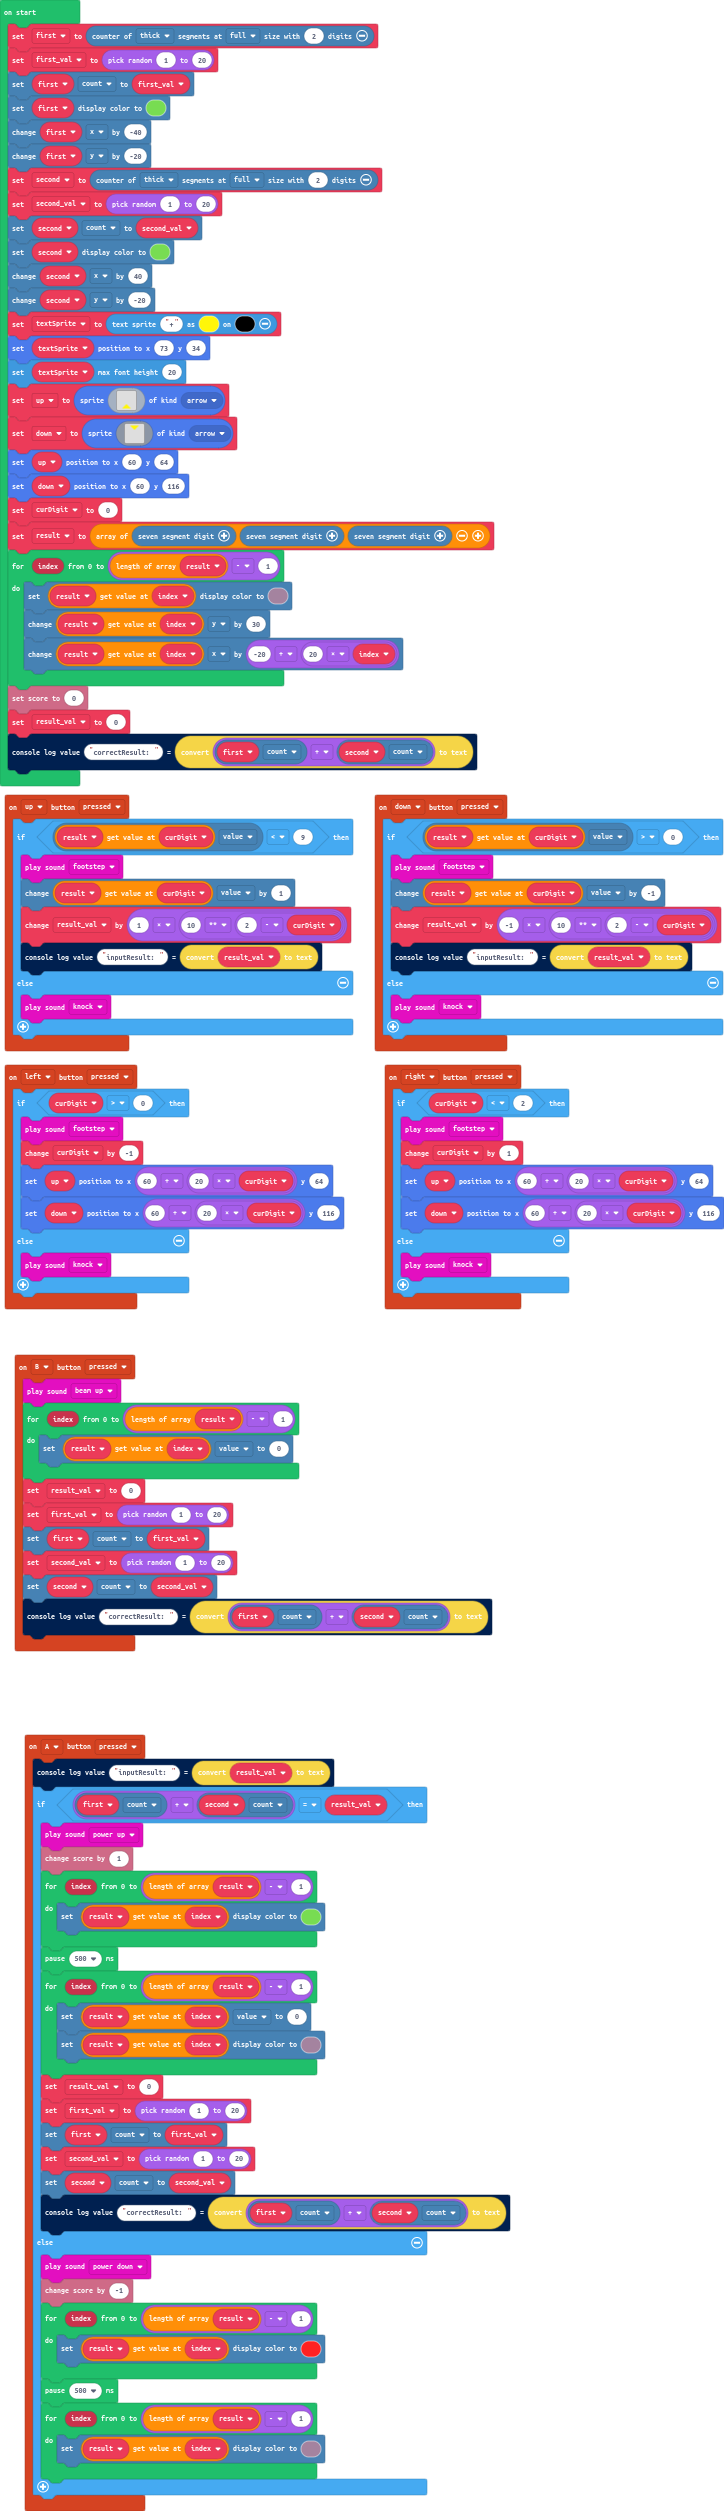
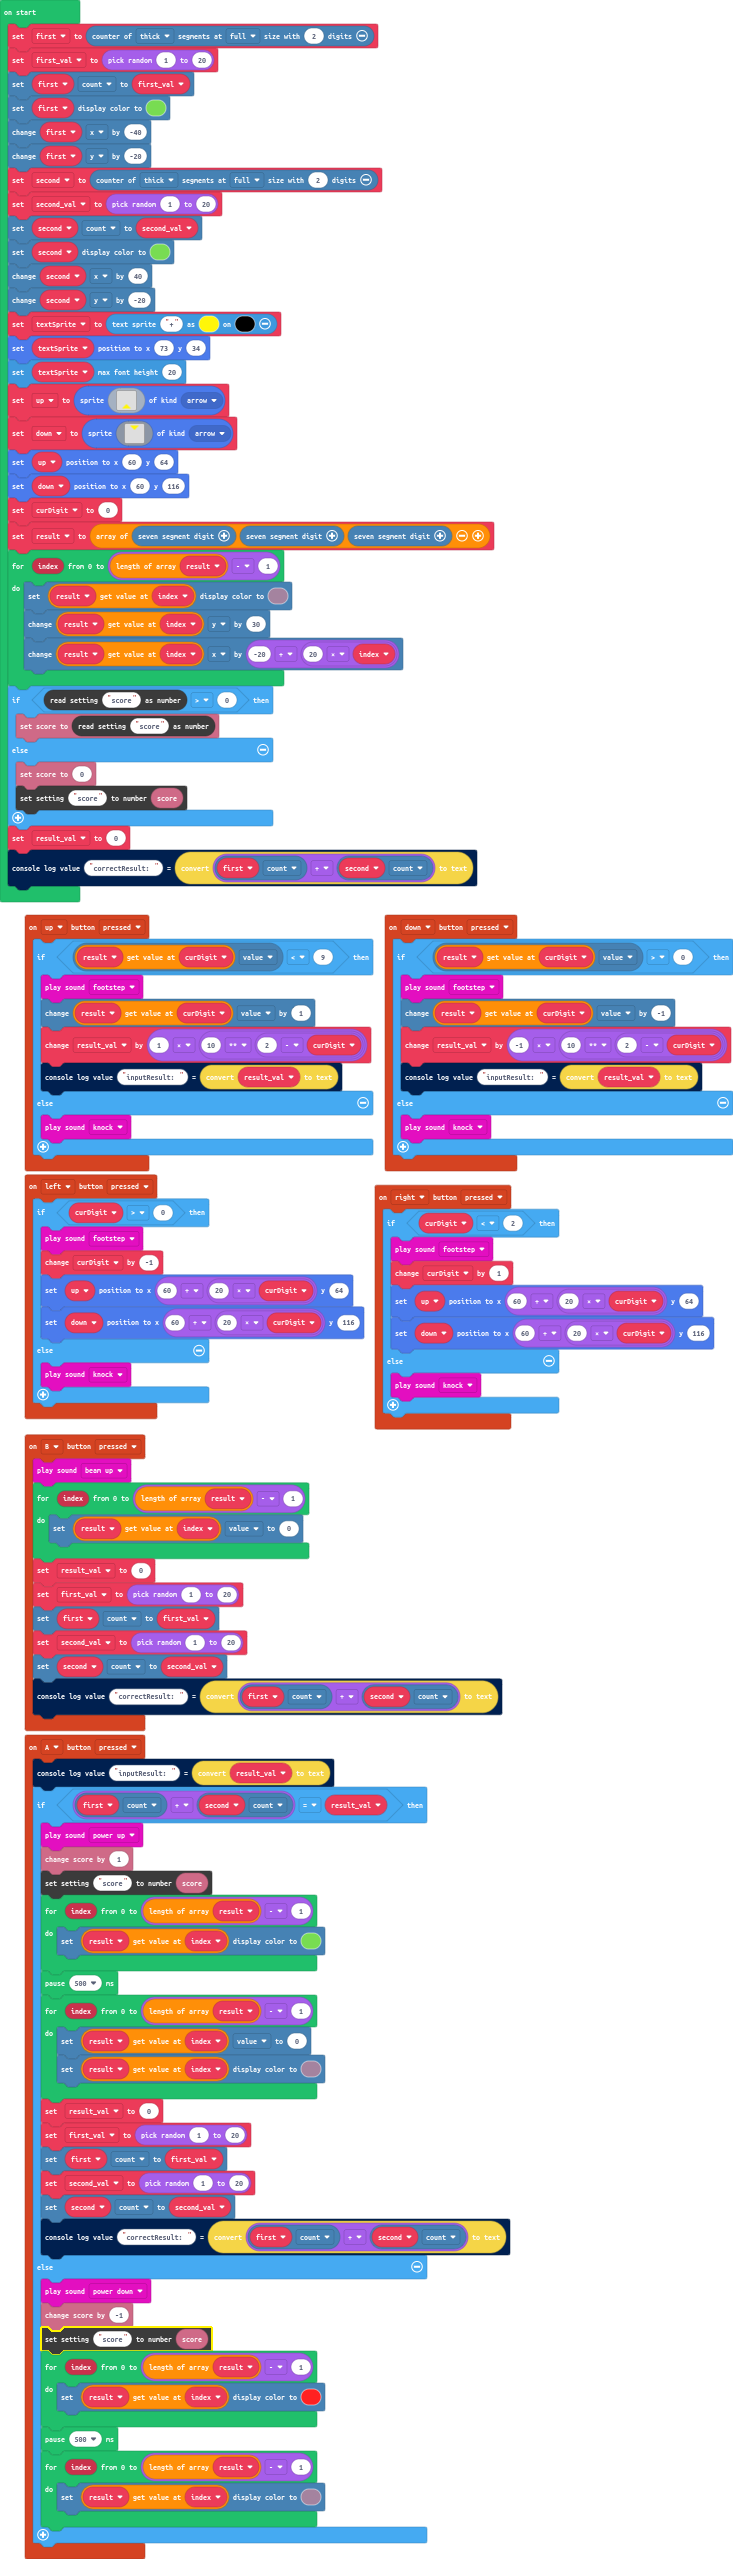
Add saving and loading score

diff --git a/main.ts b/main.ts
@@ -28,6 +28,7 @@ controller.A.onEvent(ControllerButtonEvent.Pressed, function () {
     if (first.count + second.count == result_val) {
         music.powerUp.play()
         info.changeScoreBy(1)
+        blockSettings.writeNumber("score", info.score())
         for (let index = 0; index <= result.length - 1; index++) {
             result[index].setDigitColor(7)
         }
@@ -45,6 +46,7 @@ controller.A.onEvent(ControllerButtonEvent.Pressed, function () {
     } else {
         music.powerDown.play()
         info.changeScoreBy(-1)
+        blockSettings.writeNumber("score", info.score())
         for (let index = 0; index <= result.length - 1; index++) {
             result[index].setDigitColor(2)
         }
@@ -119,6 +121,11 @@ for (let index = 0; index <= result.length - 1; index++) {
     result[index].y += 30
     result[index].x += -20 + 20 * index
 }
-info.setScore(0)
+if (blockSettings.readNumber("score") > 0) {
+    info.setScore(blockSettings.readNumber("score"))
+} else {
+    info.setScore(0)
+    blockSettings.writeNumber("score", info.score())
+}
 result_val = 0
 console.logValue("correctResult: ", convertToText(first.count + second.count))
